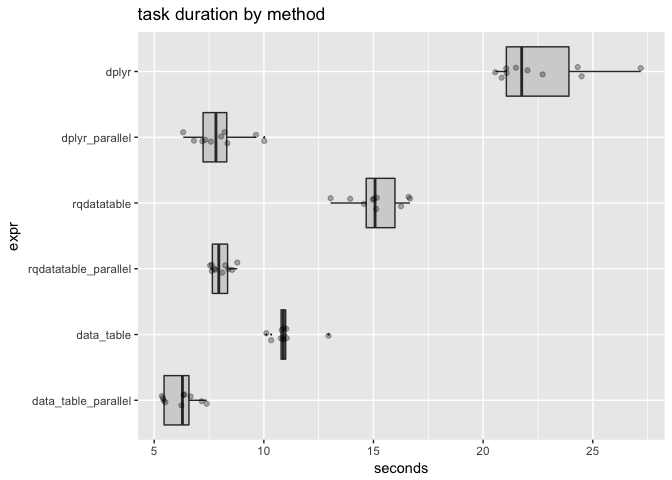
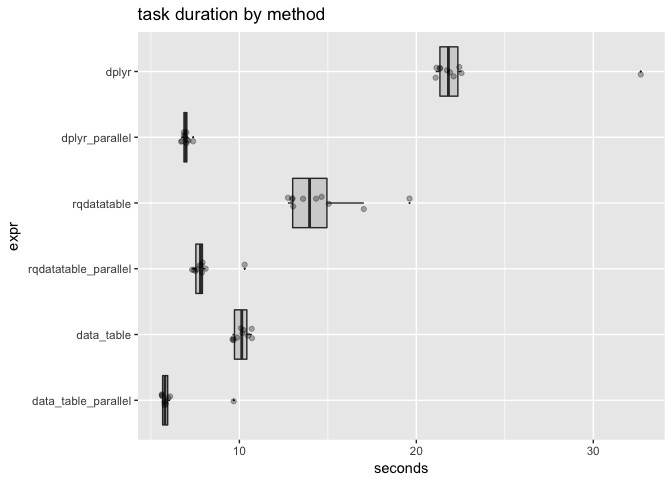
re-run to confirm current code

diff --git a/extras/Parallel_rqdatatable.md b/extras/Parallel_rqdatatable.md
@@ -1,7 +1,7 @@
 Parallel rqdatatable
 ================
 John Mount
-2018-06-11
+2018-06-18
 
 One can try to execute [`rquery`](https://github.com/WinVector/rquery) `relop` trees in parallel using [`rqdatatable`](https://github.com/WinVector/rqdatatable). However, unless the pipeline is very expensive the overhead of partitioning and distributing the work will usually overwhelm any parallel speedup. Also `data.table` itself already seems to exploit some thread-level parallelism (notice user time &gt; elapsed time).
 
@@ -37,7 +37,7 @@ library("dplyr")
 base::date()
 ```
 
-    ## [1] "Mon Jun 11 09:22:10 2018"
+    ## [1] "Mon Jun 18 10:31:39 2018"
 
 ``` r
 R.version.string
@@ -140,13 +140,13 @@ cat(format(optree))
     ##  select_rows(.,
     ##    data <= info) %.>%
     ##  extend(.,
-    ##   row_rank := rank(),
+    ##   row_number := row_number(),
     ##   p= id,
     ##   o= "data" DESC) %.>%
     ##  select_rows(.,
-    ##    row_rank <= 1) %.>%
+    ##    row_number <= 1) %.>%
     ##  drop_columns(.,
-    ##    row_rank) %.>%
+    ##    row_number) %.>%
     ##  orderby(., id)
 
 ``` r
@@ -432,19 +432,19 @@ print(timings)
 
     ## Unit: seconds
     ##                  expr       min        lq      mean    median        uq
-    ##   data_table_parallel  5.349467  5.429295  6.185279  6.287543  6.656685
-    ##            data_table 10.113425 10.775918 10.974409 10.889765 11.023422
-    ##  rqdatatable_parallel  7.547536  7.622098  8.038160  7.944890  8.381770
-    ##           rqdatatable 13.043852 14.565800 15.133214 15.071887 16.255095
-    ##        dplyr_parallel  6.322625  7.195685  7.950209  7.814357  8.338782
-    ##                 dplyr 20.551616 21.055260 22.575246 21.759043 24.314034
+    ##   data_table_parallel  5.621030  5.631779  6.181647  5.794234  5.986368
+    ##            data_table  9.611018  9.675160 10.120786 10.135154 10.485123
+    ##  rqdatatable_parallel  7.330401  7.523348  7.968305  7.802969  7.921276
+    ##           rqdatatable 12.742627 13.002965 14.604160 13.967311 15.049265
+    ##        dplyr_parallel  6.707111  6.865325  6.968853  6.958092  7.039907
+    ##                 dplyr 21.091276 21.329137 22.829816 21.813852 22.428147
     ##        max neval
-    ##   7.393918    10
-    ##  12.947765    10
-    ##   8.787670    10
-    ##  16.666136    10
-    ##  10.018203    10
-    ##  27.188850    10
+    ##   9.681078    10
+    ##  10.709166    10
+    ##  10.299280    10
+    ##  19.615581    10
+    ##   7.388646    10
+    ##  32.681440    10
 
 ``` r
 autoplot(timings)
@@ -621,8 +621,6 @@ dplyr_pipeline(datadt, annotationdt)
     ## Error in data.table::is.data.table(data): argument "x" is missing, with no default
 
 My theory is `dplyr` is seeing better scaling to processors because `dplyr` appears to be purely single threaded and `data.table` is multi-threaded (see for example `help("setDTthreads")`). `rqdatatable`'s performance regression relative to `datatable` I believe is from `rqdatatable`'s ranking strategy (something we will likely tune later, already [sometimes `rqdatatable` is competitive with `data.table` and actually quite fast](https://github.com/WinVector/rquery/blob/master/extras/data_table_replot.md)).
-
-
 
 ``` r
 parallel::stopCluster(cl)
